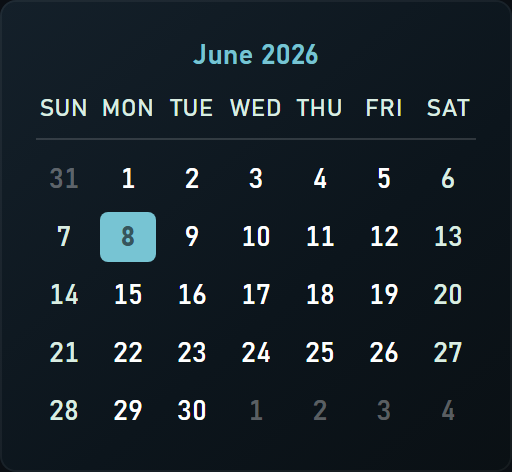
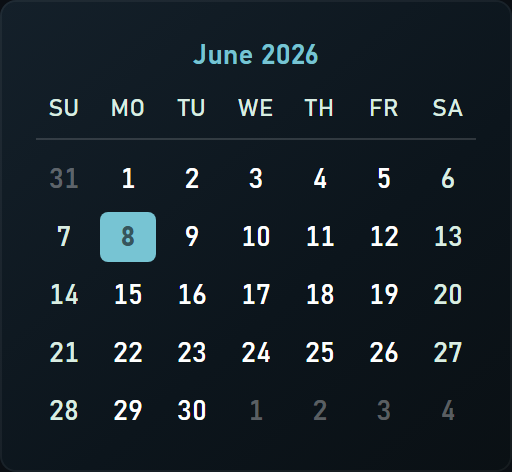
fix: keep narrow calendar headings within fallback font bounds (#74)
* fix: keep narrow calendar headings within fallback font bounds

* test: scope CLI assertions to the canvas widget

Changed region(s): [[0.0625, 0.2076, 0.7812, 0.2669], [0.8125, 0.2076, 0.9375, 0.2669]]

diff --git a/client/e2e/tools.spec.ts b/client/e2e/tools.spec.ts
@@ -8,9 +8,9 @@ test('tool widgets are discoverable and preview without executing commands', asy
 	await expect(page.locator('.np-ai-chat')).toContainText('Configure it in Settings');
 	await page.screenshot({ path: 'test-results/ai-assistant-preview.png' });
 	await previewTemplate(page, 'CLI Command');
-	await expect(page.locator('.np-command')).toBeVisible();
+	await expect(page.locator('.world .np-command')).toBeVisible();
 	await expect(
-		page.locator('.np-command').getByRole('button', { name: 'Run', exact: true })
+		page.locator('.world .np-command').getByRole('button', { name: 'Run', exact: true })
 	).toBeDisabled();
 	const list = page.locator('.designer-list');
 	await expect(list).toHaveCSS('scrollbar-width', 'thin');
@@ -45,8 +45,8 @@ test('CLI template accepts a command without running it on insertion', async ({ 
 		.filter({ hasText: 'CLI Command' })
 		.getByRole('button', { name: 'Add to layout', exact: true })
 		.click();
-	await expect(page.locator('.np-command code')).toHaveText('Get-Date');
-	await expect(page.locator('.np-command')).not.toContainText('Mock command output');
+	await expect(page.locator('.world .np-command code')).toHaveText('Get-Date');
+	await expect(page.locator('.world .np-command')).not.toContainText('Mock command output');
 	expect(log.errors).toEqual([]);
 	expect(log.mockWarns).toEqual([]);
 });

diff --git a/client/src/lib/widgets/meters/Calendar.test.tsx b/client/src/lib/widgets/meters/Calendar.test.tsx
@@ -40,8 +40,10 @@ describe('Calendar meter', () => {
 	it('starts the week on Monday when configured', () => {
 		const { container } = render(<Calendar firstDay="Monday" />);
 		const heads = container.querySelectorAll('.cal-head .cal-wd');
-		expect(heads[0].textContent).toBe('Mon');
-		expect(heads[6].textContent).toBe('Sun');
+		expect(heads[0].textContent).toBe('Mo');
+		expect(heads[0]).toHaveAttribute('aria-label', 'Mon');
+		expect(heads[6].textContent).toBe('Su');
+		expect(heads[6]).toHaveAttribute('aria-label', 'Sun');
 	});
 
 	it('continuous mode renders more weeks than the default month view', () => {

diff --git a/client/e2e/calendar.spec.ts b/client/e2e/calendar.spec.ts
@@ -14,6 +14,8 @@ test('calendar weekday headers align with dates and today stays legible on weeke
 	for (const width of [220, 180]) {
 		await calendar.evaluate((node, size) => {
 			node.style.width = `${size}px`;
+			// Exercise the wider fallback used when Bahnschrift is unavailable.
+			node.style.fontFamily = 'Arial, sans-serif';
 		}, width);
 		const columns = await calendar.evaluate((node) => {
 			const centers = (selector: string) =>

diff --git a/client/src/lib/widgets/meters/Calendar.tsx b/client/src/lib/widgets/meters/Calendar.tsx
@@ -60,8 +60,8 @@ export default function Calendar({
 				{headers && (
 					<div className="cal-row cal-head" role="row">
 						{headers.map((name, i) => (
-							<span key={i} className="cal-wd" role="columnheader">
-								{name}
+							<span key={i} className="cal-wd" role="columnheader" aria-label={name}>
+								{name.slice(0, 2)}
 							</span>
 						))}
 					</div>

diff --git a/CHANGELOG.md b/CHANGELOG.md
@@ -34,6 +34,7 @@ Notable changes per release. Older releases are described by their auto-generate
 - Recover saved layouts more reliably after interrupted writes and dev reloads.
 - Keep Studio chrome and its status bar stable during pane changes and assistant loading.
 - Keep monitor menus inside the window and show matching friendly monitor names.
+- Keep narrow calendars within their bounds with wider fallback fonts.
 - Fix unreadable Build catalog text, saved-row action overlap and stretched single preview cards.
 
 ## 0.0.67
